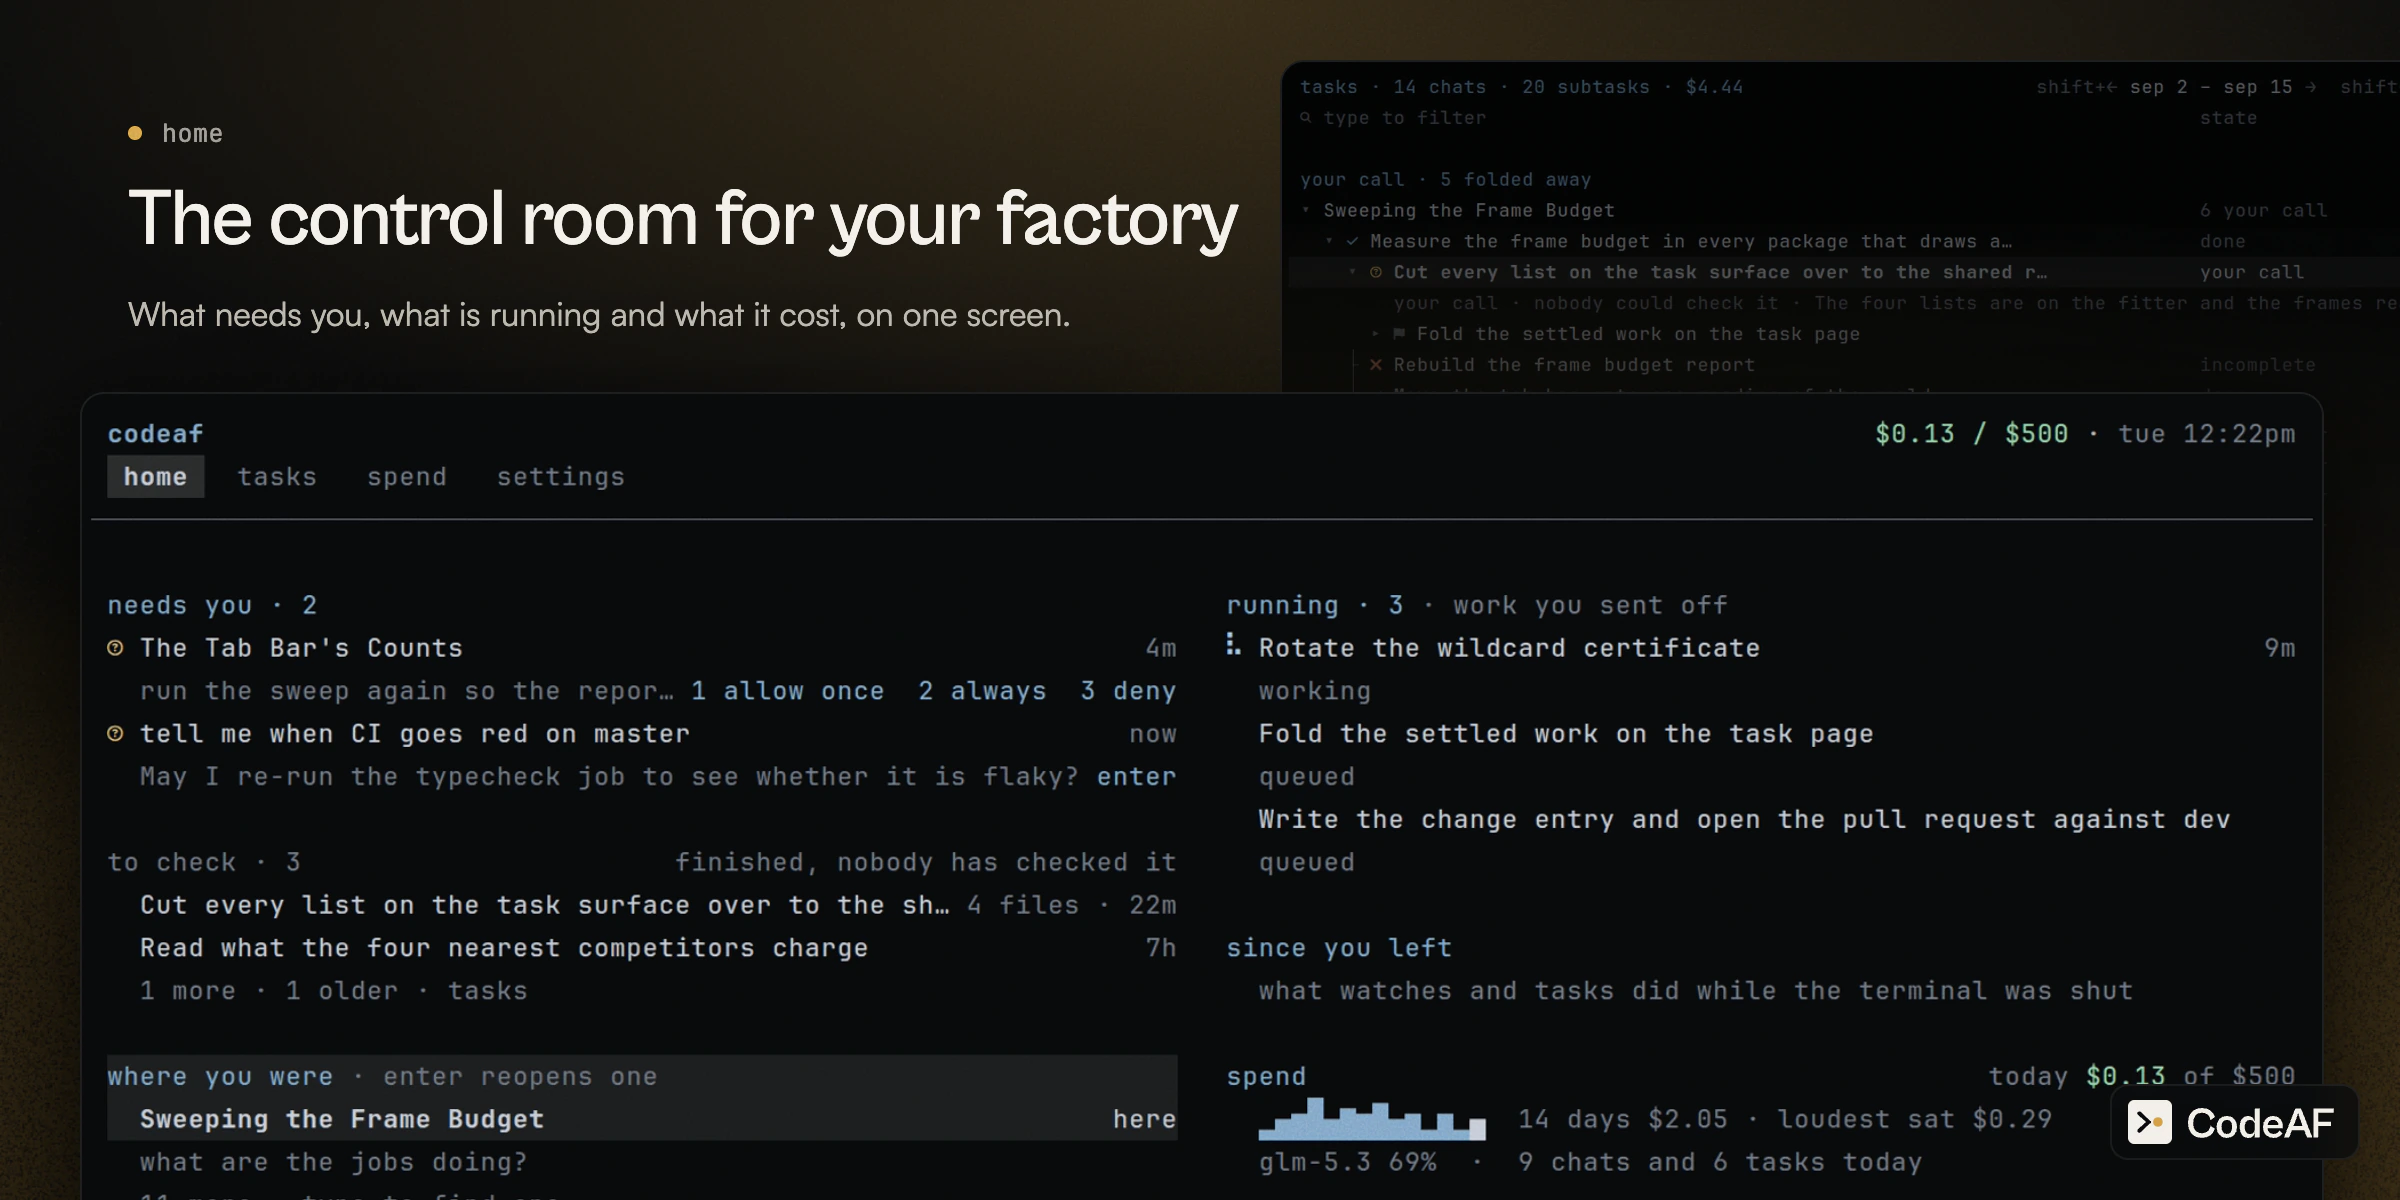
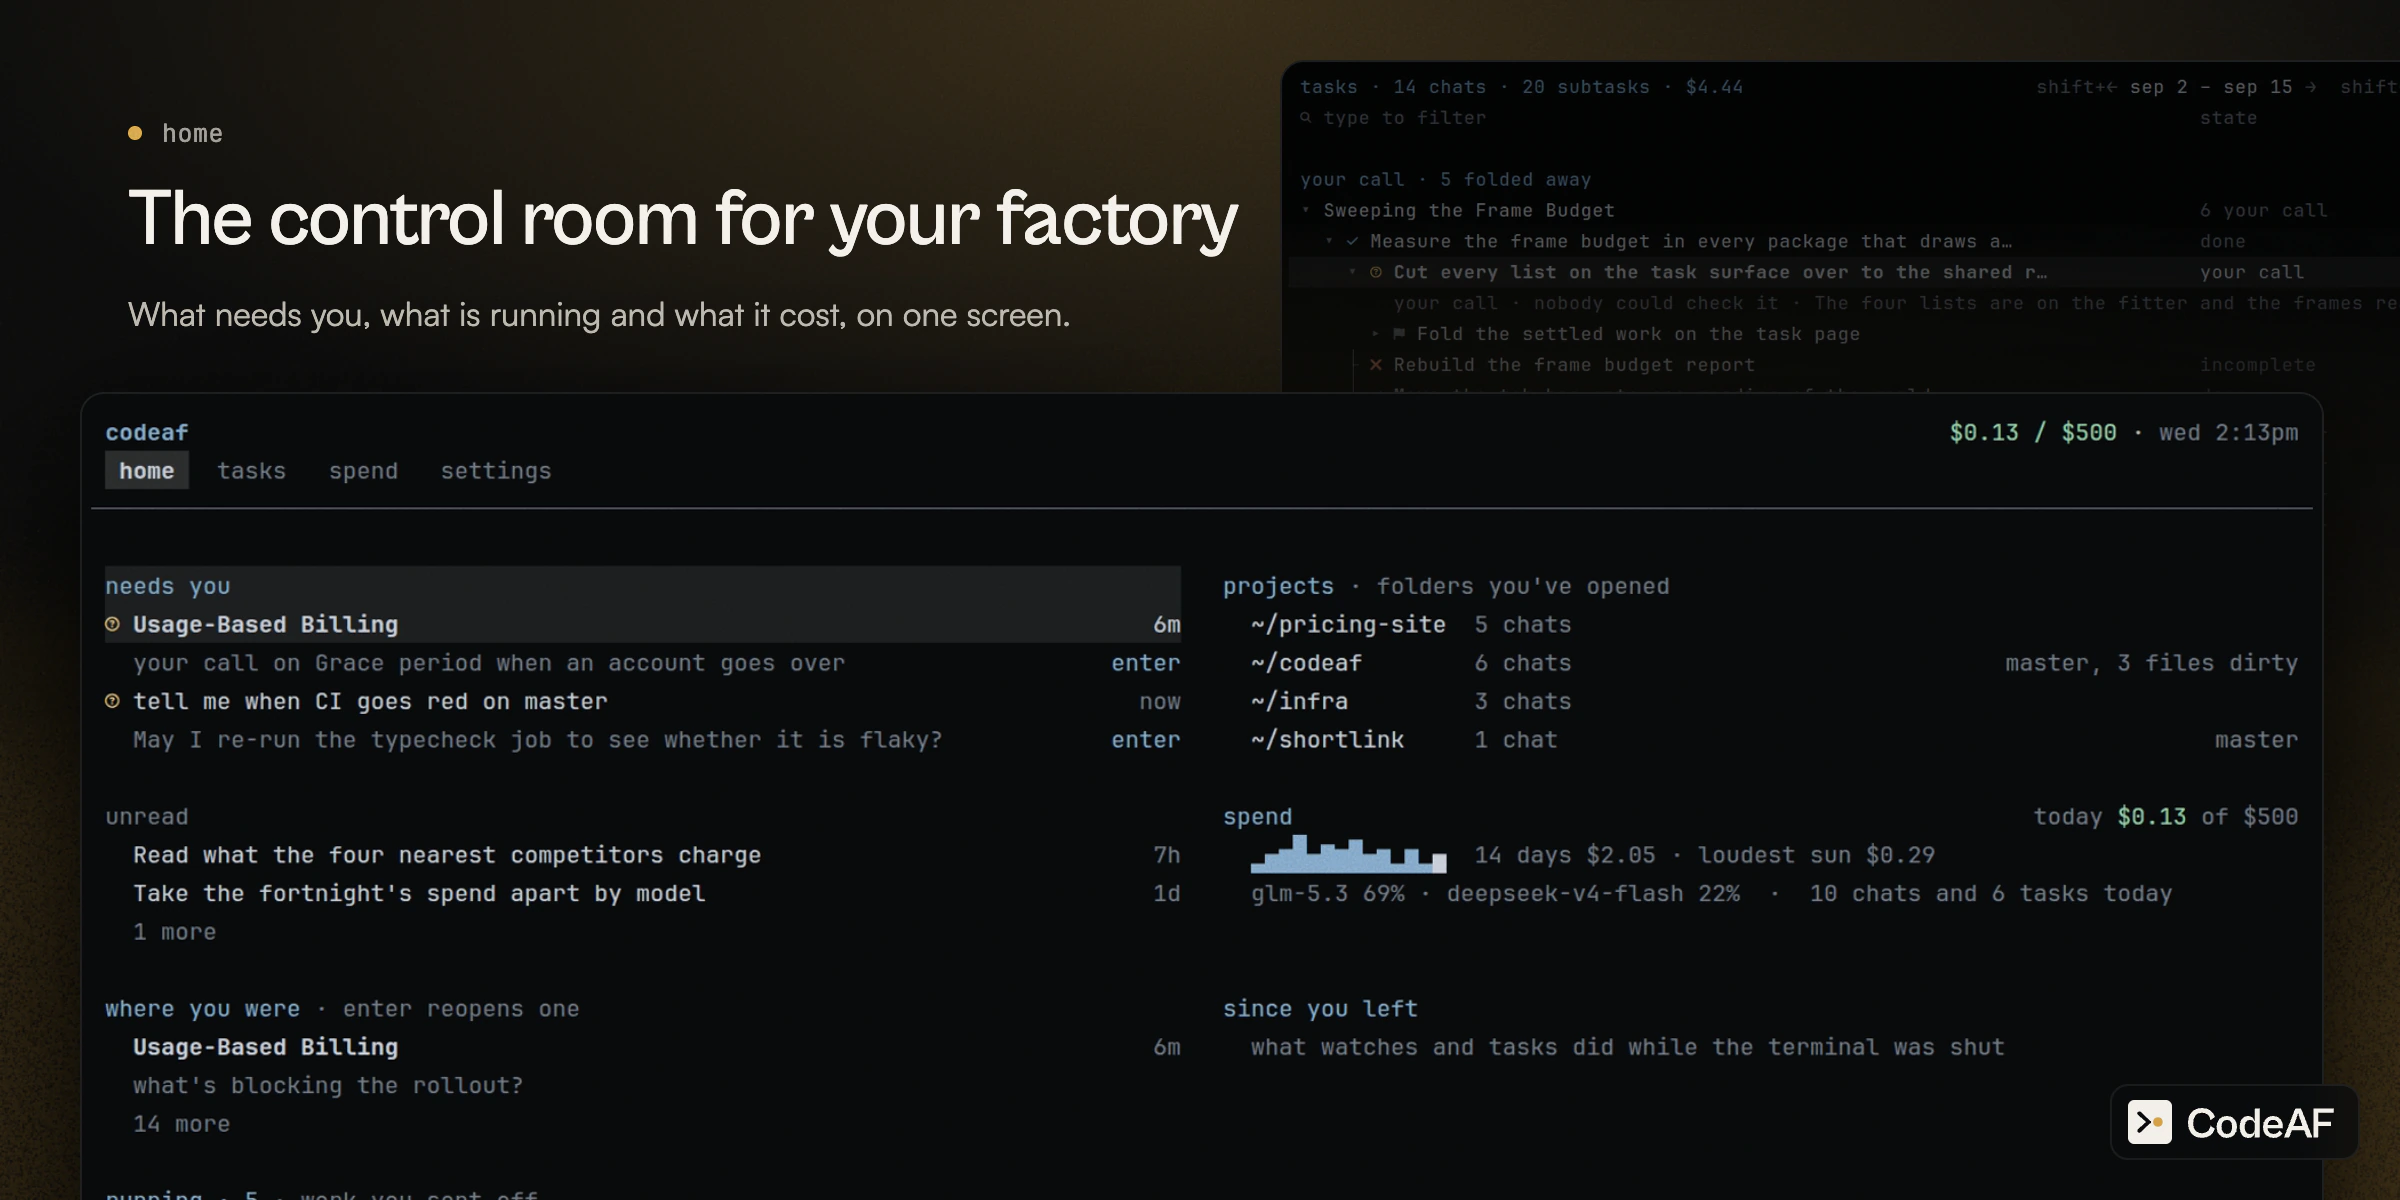
readme: drop the unverified and the placeholders, say coming soon, home and overview on the current home

diff --git a/README.md b/README.md
@@ -18,7 +18,6 @@
 <a href="#subharnesses-specialists-built-for-one-job">Subharnesses</a> ·
 <a href="#benchmarks">Benchmarks</a> ·
 <a href="#headless-is-the-other-front-door">Headless</a> ·
-<a href="#switching-from-opencode-pi-or-aider">Switching</a> ·
 <a href="docs/GUIDE.md">Guide</a>
 </p>
 
@@ -26,12 +25,12 @@
 
 **Frontier-grade coding on open models, at a fraction of the cost.**
 
-CodeAF is a coding harness built from the ground up for open models, to get the
-most intelligence out of every dollar. It also changes how you work once more
-than one thing is going on. Instead of three terminals of agents with you in the
-middle of all of them, you get one place to hand work off, see what is moving
-across every project, and step in only where your judgment is needed. The more
-you hand it, the more you get done, and that holds as models get smarter.
+CodeAF is a coding harness built for open models, to get the most out of every
+dollar. It is also a different way to work once more than one thing is going on:
+instead of three terminals of agents with you in the middle, one window where you
+hand work off, see what is moving across every project, and step in only where
+your judgment is needed. A factory, on your own machine, and the more you hand it
+the more it does.
 
 Written in Go as one small binary, with nothing else to install or run. Apache
 2.0. By [AgentField AI](https://agentfield.ai?utm_source=github-readme&utm_campaign=codeaf-readme&utm_id=codeaf-readme-byline).
@@ -60,8 +59,6 @@ pinning are on the [releases page](https://github.com/Agent-Field/codeaf/release
 On first start it asks for a key: OpenRouter, DeepSeek, GLM, Kimi, MiniMax or
 Qwen. Ollama needs none.
 
-<!-- TODO: binary size, cold start, idle memory. -->
-
 ## One window for every project
 
 An agent that lives in one folder means a terminal per repository, and a tmux
@@ -69,15 +66,15 @@ layout to remember which is which. CodeAF is one window.
 
 `home` lists every project and conversation on the machine. `enter` opens any
 of them in a tab, and the one you left keeps streaming with its tasks still
-running. `tab` flips back. `ctrl+k` jumps to any conversation, open or closed.
+running. `tab` flips back. `alt+k` jumps to any conversation, open or closed.
 Each keeps its own approval rules, models and spend limit.
 
 <img src="assets/readme/screens/projects.webp" alt="One window, every project: the tasks page listing work from codeaf, pricing-site and infra in one tree, a preview of the selected task with its files, branch, cost and 1 accept or 2 not right, and three projects open as tabs" width="100%">
 
-`home` answers what needs you, what to check, what is running and what it
+`home` answers what needs you, what is unread, what is running and what it
 cost, for all of them at once. A digit answers a question from its row.
 
-<img src="assets/readme/screens/home.webp" alt="Home in two columns: needs you, to check and where you were on the left; running, since you left and spend on the right" width="100%">
+<img src="assets/readme/screens/home.webp" alt="Home in two columns: needs you, unread, where you were, running and scheduled on the left; projects, spend and since you left on the right" width="100%">
 
 ## Talk, and it becomes tasks
 
@@ -94,7 +91,7 @@ shows every task and its subtasks.
 <img src="assets/readme/screens/conversation.webp" alt="One chat, a tree of tasks: a conversation that handed out four bug fixes, with its task rail beside it showing each task, its subtasks and which ones wait on your call" width="100%">
 
 Work that passes its check lands on your branch by itself, never on `main`,
-`dev` or a release branch. Work nothing could check waits under `to check`:
+`dev` or a release branch. Work nothing could check waits under `unread`:
 `1` accept, `2` not right.
 
 <img src="assets/readme/screens/tasks-tree.webp" alt="Every task is a tree you can open: the tasks page with a task family unfolded, subtasks marked done, your call and incomplete" width="100%">
@@ -128,33 +125,19 @@ A run is a task like any other, on `home`, with a room and a stop.
 
 - **Coming soon, native:** [PR-AF](https://github.com/Agent-Field/pr-af), the #1
   open-source code reviewer on Martian Code-Review-Bench.
-- **In the benchmark below:** `[SUBHARNESS]`, the developer subharness, against
+- **Coming soon, in the benchmark below:** the developer subharness against
   general harnesses on the same open model.
 - **Your own:** "make me a harness for triaging flaky tests" designs one, saves
   it, and `/subharness` runs it.
 
-<!-- TODO: name the developer subharness the benchmark ran, and the release that
-     ships PR-AF natively. -->
-
 ## Benchmarks
 
-<!-- TODO(C1): chart, two panels: pass rate vs cost, pass rate vs time.
-     Render from the launch run with bench/oneroad/plots/final_board.py. -->
-
-We ran `[N]` held-out GitHub issues, `[K]` seeds each, through CodeAF's
-developer subharness and every harness below on the same open model, `[MODEL]`. Versions and configs are in
-[BENCHMARKS.md](BENCHMARKS.md), with every failure, timeout and unpriced call.
-
-| harness | version | pass rate | cost per issue | time per issue |
-| --- | --- | --- | --- | --- |
-| CodeAF, `[SUBHARNESS]` | `[..]` | `[..]` | `[..]` | `[..]` |
-| `[HARNESS]` | `[..]` | `[..]` | `[..]` | `[..]` |
-| `[HARNESS]` | `[..]` | `[..]` | `[..]` | `[..]` |
-| `[HARNESS]` | `[..]` | `[..]` | `[..]` | `[..]` |
-
-CodeAF is on the frontier: the harnesses that passed more cost more and took
-longer, and the ones that cost less passed fewer. Rerun it on your own
-repository with `bench/` and send us the numbers.
+Coming soon. The run is held-out GitHub issues, several seeds each, through
+CodeAF's developer subharness and the general harnesses on the same open model:
+pass rate, cost per issue and time per issue, with every failure, timeout and
+unpriced call written up in [BENCHMARKS.md](BENCHMARKS.md). The chart and the
+table land here when the run completes, and `bench/` runs it on your own
+repository.
 
 ## The right model for each call
 
@@ -171,12 +154,6 @@ crew, take the calls you did not type:
 
 `/crew frugal`, `balanced` or `max` sets all five in one word. Any seat can be
 pinned.
-
-| preset | worker | careful work | mastermind |
-| --- | --- | --- | --- |
-| frugal | deepseek-v4-flash | glm-5.3-flash | glm-5.3-flash |
-| balanced | glm-5.3-flash | qwen3.8-27b | glm-5.3 |
-| max | glm-5.3 | kimi-k3 | kimi-k3 |
 
 Every finished task is graded by the check it already had to pass. Work that
 keeps failing on the worker seat moves up to careful work on its own, and each
@@ -215,7 +192,8 @@ best answer and records the assumption. `exec` runs one worker with no plan;
 
 Most agents on a remote box mean ssh, tmux, and a terminal that lags on every
 key. CodeAF splits in two instead. The screen runs on the machine in front of
-you. The conversation runs on the machine that owns the work.
+you. The conversation runs on the machine that owns the work, and `home` shows
+that machine: its projects, tasks and standing orders.
 
 <img src="assets/readme/anywhere.webp" alt="one conversation on devbox; your terminal on the same machine, your laptop over ssh, and your phone from a mobile terminal over ssh all attach to it" width="100%">
 
@@ -226,13 +204,11 @@ codeaf chat --host devbox    # your own ssh: config, keys, jump hosts. nothing t
 - **Typing never waits on the network.** Drawing the screen makes no round
   trip. Pressing enter makes one.
 - **Close the lid, the work keeps going.** The conversation lives on devbox. A
-  dropped link redials for five minutes, and a question asked while you were
-  away is still waiting when you come back.
+  dropped link redials for five minutes, a question asked while you were away
+  is still waiting when you come back, and desk and laptop can watch the same
+  turn.
 - **Files cross both ways.** Paste a screenshot or drop a file and it lands on
   devbox. Click a path in a reply and it opens here, in your own editor.
-- **Two screens, one conversation.** Desk and laptop watch the same turn. The
-  newest window types; `enter` takes the keyboard back.
-- **Home shows that machine.** Its projects, tasks and standing orders.
 
 On your phone there is no app to install. ssh in from any mobile terminal, run
 `codeaf` in the project, and it joins the same live conversation, folded to fit
@@ -241,19 +217,8 @@ the screen.
 <img src="assets/readme/screens/phone.webp" alt="Native in the terminal on your phone: CodeAF home at phone width inside a mobile terminal over ssh, beside the same home on a wide screen" width="100%">
 
 Still local over a connection: spend, search and memory. Reaching a machine
-with no ssh at all, through a relay and a pairing code, is built and waits on a
-hosted relay. [How it works](docs/REMOTE.md).
-
-## What it is allowed to touch
-
-A task writes in its own copy, on its own branch, and lands only on a branch
-that is not protected. Nothing leaves your machine except the model calls you
-configured.
-
-<!-- TODO: confirm the telemetry sentence against the code before publishing. -->
-
-Apache 2.0, all of it. A program with write access to your repositories should
-be one you can read.
+with no ssh at all, through a relay and a pairing code, is built and switches on
+when the hosted relay does. [How it works](docs/REMOTE.md).
 
 ## What a copilot does, and what CodeAF does
 
@@ -265,43 +230,10 @@ be one you can read.
 | how long it lasts | one session | conversations, tasks and standing orders that outlive the window |
 | without you | it stops | headless, standing orders, a phone in your pocket |
 
-## Switching from opencode, pi or aider
-
-Your keys and providers carry over, and the conversation feels familiar. What
-changes is around it:
-
-- one window for every project, instead of a terminal per folder
-- what you ask for becomes tasks that land themselves, and only the unchecked
-  ones wait for you
-- a model per call, not per session
-- subharnesses: specialists for the work that comes round again
-- rules and reminders you say once
-- the session lives on your dev box, and the screen stays where you are
-
-## Roadmap
-
-v0.1.0 shipped on 2026-08-17. `[N]` changes since, each written up in
-[docs/changes](docs/changes/).
-
-| shipped | launch, `[DATE]` | next |
-| --- | --- | --- |
-| conversation, tasks, review, subharnesses you design | binaries and installer for every platform | native subharnesses, starting with PR-AF code review |
-| home, standing orders, memory | benchmark results and chart | team server: one machine, every engineer's factory |
-| six-seat crew, spend limits | `[..]` | no-ssh access through a hosted relay (`--at`), web view |
-| remote over ssh, phone-width terminal, headless | | identity and a signed record per task, through the AgentField control plane, Apache 2.0 like the rest |
-
-More is already being tested by teams inside AgentField, native subharnesses
-first, and it lands here as it holds up. [Discord](https://discord.gg/aBHaXMkpqh) is where it
-shows up first. Vote in [Discussions](https://github.com/Agent-Field/codeaf/discussions).
-Three things help most: run the benchmark on your own repository and send the
-run; add a provider that is missing; when a task goes wrong, `/why` and paste
-what it says into an issue.
-
-
 ## Docs
 
 - `codeaf manual`, or `alt+.` for the key map. The manual ships in the binary and the chat reads it too.
 - [Guide](docs/GUIDE.md): every flag, key, slash command and exit code.
 - [docs/](docs/README.md): architecture, headless, remote, limits.
 
-Built by [AgentField](https://github.com/Agent-Field/agentfield) team.
+Built by the [AgentField](https://github.com/Agent-Field/agentfield) team.
